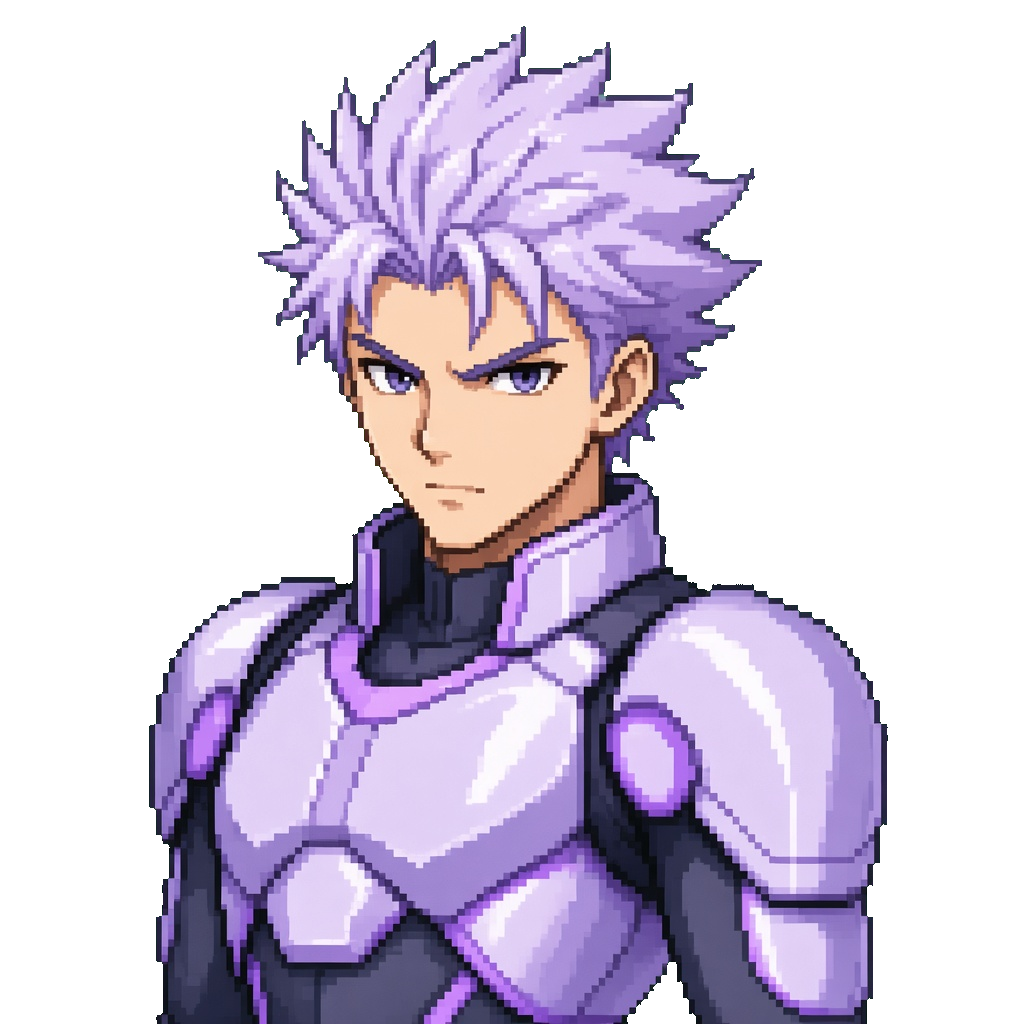
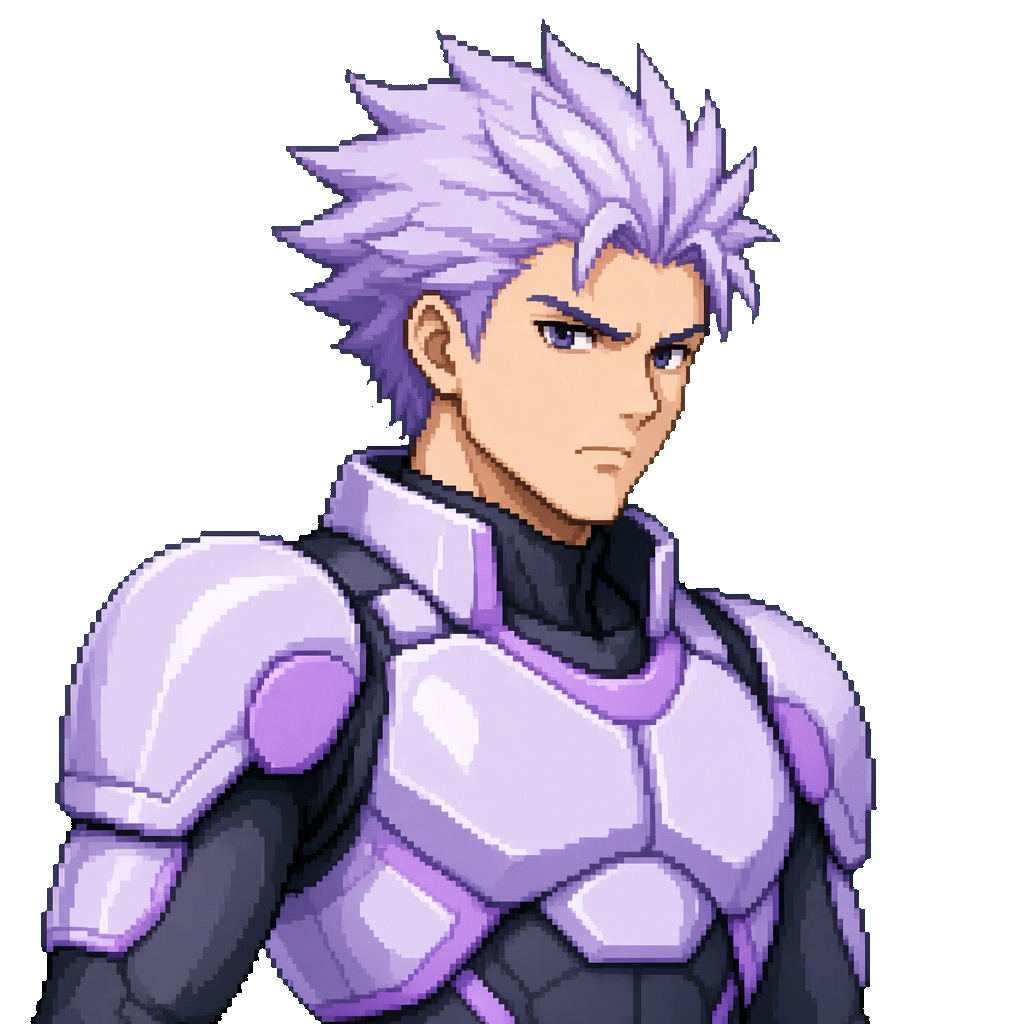
Portraits: feminine Nadia; Krypto distinct from Kyle (black bodysuit, bulky pale plates).

diff --git a/src/data/faceArt.js b/src/data/faceArt.js
@@ -49,13 +49,13 @@ export const FACE_ART = {
   indy: { key: 'face-indy', file: 'art-src/portraits/indy-face.png', box: [292, 144, 440, 440] },
   iona: { key: 'face-iona', file: 'art-src/portraits/iona-face.png', box: [351, 149, 440, 440] },
   ira: { key: 'face-ira', file: 'art-src/portraits/ira-face.png', box: [194, 249, 440, 440] },
-  krypto: { key: 'face-krypto', file: 'art-src/portraits/krypto-face.png', box: [261, 215, 440, 440] },
+  krypto: { key: 'face-krypto', file: 'art-src/portraits/krypto-face.png', box: [338, 181, 440, 440] },
   lana: { key: 'face-lana', file: 'art-src/portraits/lana-face.png', box: [343, 208, 440, 440] },
   lars: { key: 'face-lars', file: 'art-src/portraits/lars-face.png', box: [322, 184, 440, 440] },
   lucy: { key: 'face-lucy', file: 'art-src/portraits/lucy-face.png', box: [366, 250, 440, 440] },
   mae: { key: 'face-mae', file: 'art-src/portraits/mae-face.png', box: [341, 109, 440, 440] },
   molly: { key: 'face-molly', file: 'art-src/portraits/molly-face.png', box: [350, 219, 440, 440] },
-  nadia: { key: 'face-nadia', file: 'art-src/portraits/nadia-face.png', box: [324, 128, 440, 440] },
+  nadia: { key: 'face-nadia', file: 'art-src/portraits/nadia-face.png', box: [323, 120, 440, 440] },
   nick: { key: 'face-nick', file: 'art-src/portraits/nick-face.png', box: [325, 247, 440, 440] },
   niobe: { key: 'face-niobe', file: 'art-src/portraits/niobe-face.png', box: [332, 128, 440, 440] },
   noble: { key: 'face-noble', file: 'art-src/portraits/noble-face.png', box: [313, 26, 440, 440] },
